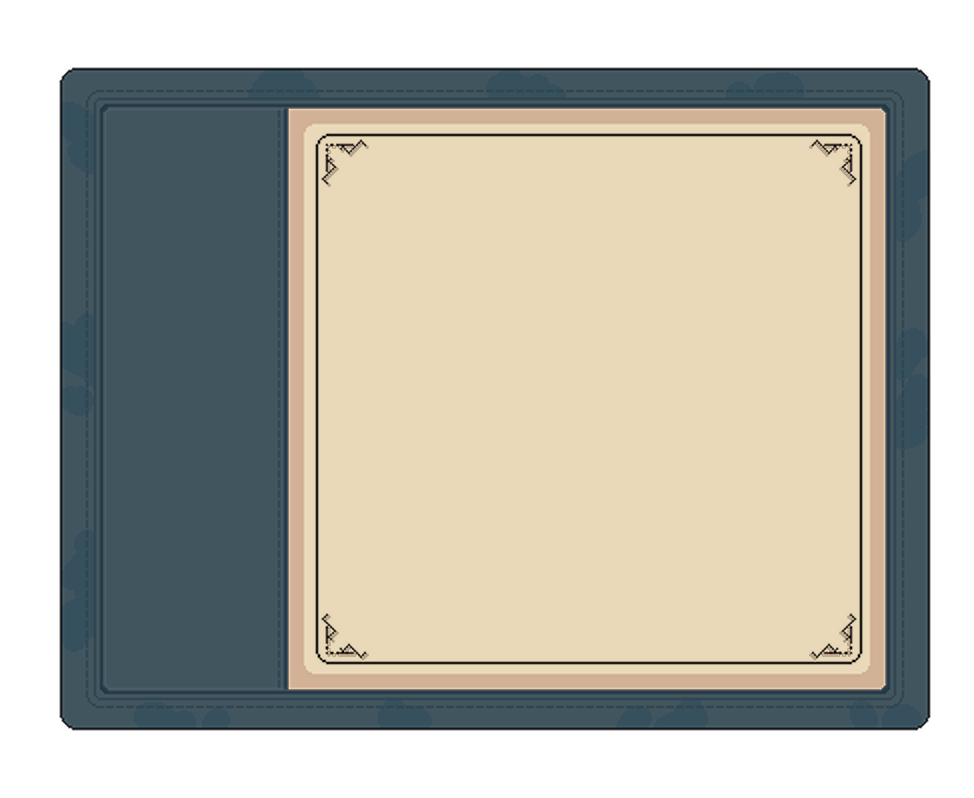
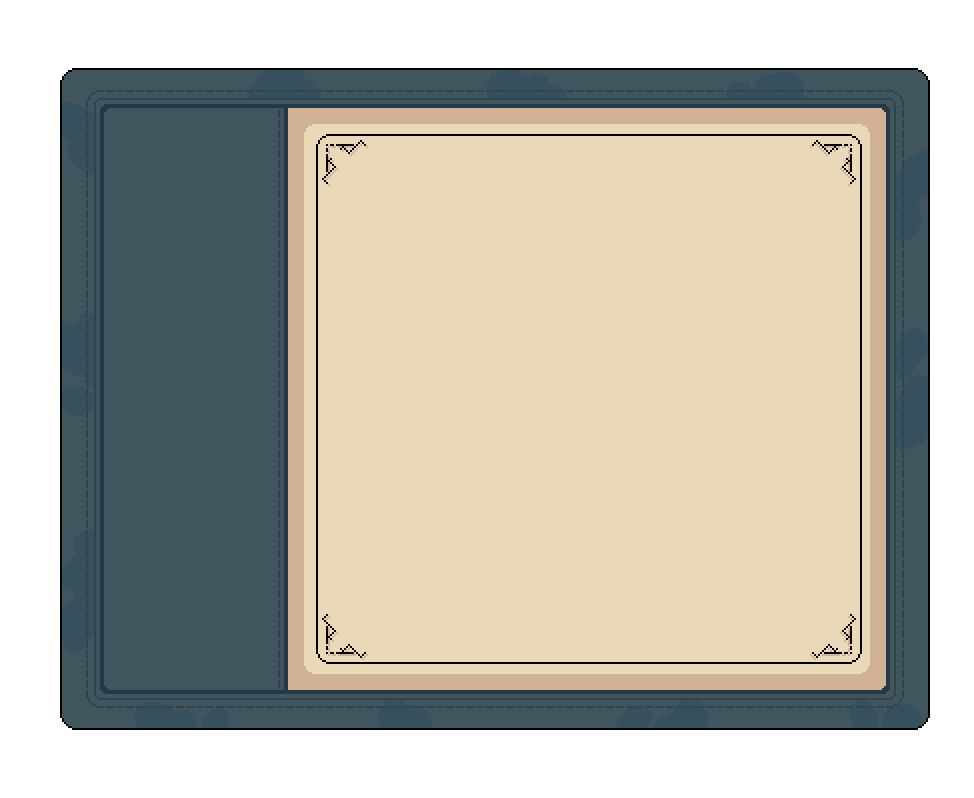
feat: Add option for mouse control (and move raycasting on another thread with the mlx)

Changed region(s): [[0.2772, 0.1203, 0.924, 0.8722]]

diff --git a/src/views/render_inventory.c b/src/views/render_inventory.c
@@ -6,11 +6,16 @@
 /*   By: rgodet <rgodet@student.42.fr>              +#+  +:+       +#+        */
 /*                                                +#+#+#+#+#+   +#+           */
 /*   Created: 2025/07/15 15:49:08 by rgodet            #+#    #+#             */
-/*   Updated: 2025/07/16 13:23:36 by rgodet           ###   ########.fr       */
+/*   Updated: 2025/07/16 15:46:49 by rgodet           ###   ########.fr       */
 /*                                                                            */
 /* ************************************************************************** */
 
 #include "../cub3d.h"
+
+void	render_shadow_text(t_game *game, int x, int y, char *text)
+{
+	mlx_string_put(game->graphics->init, game->graphics->window, x, y, color(0x000000FF), text);
+}
 
 void	render_inventory(t_game *game)
 {
@@ -18,13 +23,48 @@ void	render_inventory(t_game *game)
 	mlx_put_image_to_window(game->graphics->init, game->graphics->window, game->texture->render_tmp, 0, 0);
 	mlx_put_image_to_window(game->graphics->init, game->graphics->window, game->texture->inventory_background, 153, 1);
 
-	mlx_put_image_to_window(game->graphics->init, game->graphics->window, game->texture->inventory_icon_map, 299, 206);
-	mlx_put_image_to_window(game->graphics->init, game->graphics->window, game->texture->inventory_icon_cases, 299, 304);
-	mlx_put_image_to_window(game->graphics->init, game->graphics->window, game->texture->inventory_icon_save, 299, 400);
-	mlx_put_image_to_window(game->graphics->init, game->graphics->window, game->texture->inventory_icon_options, 299, 498);
+	if (game->player->inventory_page == 0)
+		mlx_put_image_to_window(game->graphics->init, game->graphics->window, game->texture->inventory_icon_map_selected, 299, 206);
+	else
+		mlx_put_image_to_window(game->graphics->init, game->graphics->window, game->texture->inventory_icon_map, 299, 206);
+	if (game->player->inventory_page == 1)
+		mlx_put_image_to_window(game->graphics->init, game->graphics->window, game->texture->inventory_icon_cases_selected, 299, 304);
+	else
+		mlx_put_image_to_window(game->graphics->init, game->graphics->window, game->texture->inventory_icon_cases, 299, 304);
+	if (game->player->inventory_page == 2)
+		mlx_put_image_to_window(game->graphics->init, game->graphics->window, game->texture->inventory_icon_save_selected, 299, 400);
+	else
+		mlx_put_image_to_window(game->graphics->init, game->graphics->window, game->texture->inventory_icon_save, 299, 400);
+	if (game->player->inventory_page == 3)
+		mlx_put_image_to_window(game->graphics->init, game->graphics->window, game->texture->inventory_icon_options_selected, 299, 498);
+	else
+		mlx_put_image_to_window(game->graphics->init, game->graphics->window, game->texture->inventory_icon_options, 299, 498);
 
 	mlx_put_image_to_window(game->graphics->init, game->graphics->window, game->texture->q_arrow, 315, 595);
 	mlx_put_image_to_window(game->graphics->init, game->graphics->window, game->texture->e_arrow, 315, 109);
+
+	if (game->player->inventory_page == 3) // Options page
+	{
+		mlx_put_image_to_window(game->graphics->init, game->graphics->window, game->texture->options_header, 511, 177);
+
+		if (game->player->selected_item == 0)
+			mlx_put_image_to_window(game->graphics->init, game->graphics->window, game->texture->slider_selected, 511, 297);
+		render_shadow_text(game, 531, 326, "FOV: 70");
+		mlx_put_image_to_window(game->graphics->init, game->graphics->window, game->texture->slider_base, 511, 297);
+
+		if (game->player->selected_item == 1)
+			mlx_put_image_to_window(game->graphics->init, game->graphics->window, game->texture->slider_selected, 511, 403);
+		render_shadow_text(game, 531, 433, "MAX FPS: 120");
+		mlx_put_image_to_window(game->graphics->init, game->graphics->window, game->texture->slider_base, 511, 403);
+
+		if (game->player->selected_item == 2)
+			mlx_put_image_to_window(game->graphics->init, game->graphics->window, game->texture->switch_selected, 511, 509);
+		render_shadow_text(game, 595, 556, "Rotate camera with mouse");
+		if (game->player->use_mouse_rotation)
+			mlx_put_image_to_window(game->graphics->init, game->graphics->window, game->texture->switch_on, 521, 519);
+		else
+			mlx_put_image_to_window(game->graphics->init, game->graphics->window, game->texture->switch_off, 521, 519);
+	}
 	if (game->events->exit)
 	{
 		change_view(game, 1);

diff --git a/src/views/render_game.c b/src/views/render_game.c
@@ -6,7 +6,7 @@
 /*   By: amblanch <amblanch@student.42.fr>          +#+  +:+       +#+        */
 /*                                                +#+#+#+#+#+   +#+           */
 /*   Created: 2025/07/09 13:45:18 by rgodet            #+#    #+#             */
-/*   Updated: 2025/07/15 15:39:46 by rgodet           ###   ########.fr       */
+/*   Updated: 2025/07/16 15:28:13 by rgodet           ###   ########.fr       */
 /*                                                                            */
 /* ************************************************************************** */
 
@@ -24,7 +24,6 @@ void	render_game(t_game *game)
 {
 	mlx_clear_window(game->graphics->init, game->graphics->window, color(0x000000FF));
 
-	raycasting(game);
 	mlx_put_image_to_window(game->graphics->init, game->graphics->window, game->texture->render_tmp, 0, 0);
 	(void) draw_rectangle;
 	compass(game);
@@ -35,20 +34,30 @@ void	render_game(t_game *game)
 
 	if (game->events->debug_enabled)
 		debug_view(game);
-	// int mouse_x = WIDTH_WINDOW/2;
-	// int mouse_y = 0;
-	// mlx_mouse_get_pos(game->graphics->init, &mouse_x, &mouse_y);
-	// if ((mouse_x / (float)WIDTH_WINDOW) * 360.0f == 0 && game->graphics->frame % 3 == 0)
-	// 	mlx_mouse_move(game->graphics->init, game->graphics->window, WIDTH_WINDOW - 2, HEIGHT_WINDOW/2);
-	// else if ((mouse_x / (float)WIDTH_WINDOW) * 360.0f > 359.0f && game->graphics->frame % 3 == 0)
-	// 	mlx_mouse_move(game->graphics->init, game->graphics->window, 2, HEIGHT_WINDOW/2);
-	// game->player->angle = (mouse_x / (float)WIDTH_WINDOW) * 360.0f;
-	//
-	// mlx_put_transformed_image_to_window(game->graphics->init, game->graphics->window, game->texture->north->img, 0, 0, 0.25, 0.25, 0);
-	// mlx_put_transformed_image_to_window(game->graphics->init, game->graphics->window, game->texture->south->img, game->texture->north->width * 0.25 + 10, 0, 0.25, 0.25, 0);
-	//
-	// mlx_put_transformed_image_to_window(game->graphics->init, game->graphics->window, game->texture->west->img, 0, game->texture->north->height * 0.25 + 10, 0.25, 0.25, 0);
-	// mlx_put_transformed_image_to_window(game->graphics->init, game->graphics->window, game->texture->east->img, game->texture->west->width * 0.25 + 10, game->texture->south->height * 0.25 + 10, 0.25, 0.25, 0);
+
+	if (game->player->use_mouse_rotation)
+	{
+		mlx_mouse_hide(game->graphics->init);
+		int mouse_x = WIDTH_WINDOW / 2;
+		int mouse_y = 0;
+		mlx_mouse_get_pos(game->graphics->init, &mouse_x, &mouse_y);
+		if ((mouse_x / (float) WIDTH_WINDOW) * 360.0f == 0 && game->graphics->frame % 3 == 0)
+			mlx_mouse_move(game->graphics->init, game->graphics->window, WIDTH_WINDOW - 2, HEIGHT_WINDOW / 2);
+		else if ((mouse_x / (float) WIDTH_WINDOW) * 360.0f > 359.0f && game->graphics->frame % 3 == 0)
+			mlx_mouse_move(game->graphics->init, game->graphics->window, 2, HEIGHT_WINDOW / 2);
+		game->player->angle = (mouse_x / (float) WIDTH_WINDOW) * 360.0f;
+
+		mlx_put_transformed_image_to_window(game->graphics->init, game->graphics->window, game->texture->north->img, 0, 0,
+											0.25, 0.25, 0);
+		mlx_put_transformed_image_to_window(game->graphics->init, game->graphics->window, game->texture->south->img,
+											game->texture->north->width * 0.25 + 10, 0, 0.25, 0.25, 0);
+
+		mlx_put_transformed_image_to_window(game->graphics->init, game->graphics->window, game->texture->west->img, 0,
+											game->texture->north->height * 0.25 + 10, 0.25, 0.25, 0);
+		mlx_put_transformed_image_to_window(game->graphics->init, game->graphics->window, game->texture->east->img,
+											game->texture->west->width * 0.25 + 10,
+											game->texture->south->height * 0.25 + 10, 0.25, 0.25, 0);
+	}
 	player_action(game);
 	game->graphics->frame++;
 }

diff --git a/src/event/pages/inventory.c b/src/event/pages/inventory.c
@@ -6,7 +6,7 @@
 /*   By: rgodet <rgodet@student.42.fr>              +#+  +:+       +#+        */
 /*                                                +#+#+#+#+#+   +#+           */
 /*   Created: 2025/07/16 13:28:11 by rgodet            #+#    #+#             */
-/*   Updated: 2025/07/16 13:28:14 by rgodet           ###   ########.fr       */
+/*   Updated: 2025/07/16 14:14:51 by rgodet           ###   ########.fr       */
 /*                                                                            */
 /* ************************************************************************** */
 
@@ -19,4 +19,35 @@ void	on_keydown_inventory(int key, t_game *game)
 		change_view(game, 1);
 		game->events->exit = 0;
 	}
+	if (key == 20)
+		game->player->inventory_page = (game->player->inventory_page + 1) % 4;
+	if (key == 8)
+		game->player->inventory_page = (game->player->inventory_page - 1 + 4) % 4;
+	if (key == 22)
+	{
+		if (game->player->inventory_page == 3)
+			game->player->selected_item = (game->player->selected_item + 1) % 3;
+	}
+	if (key == 26)
+	{
+		if (game->player->inventory_page == 3)
+			game->player->selected_item = (game->player->selected_item - 1 + 3) % 3;
+	}
+	if (key == 7)
+	{
+		if (game->player->inventory_page == 3)
+		{
+			if (game->player->selected_item == 2)
+				game->player->use_mouse_rotation = !game->player->use_mouse_rotation;
+		}
+	}
+	if (key == 4)
+	{
+		if (game->player->inventory_page == 3)
+		{
+			if (game->player->selected_item == 2)
+				game->player->use_mouse_rotation = !game->player->use_mouse_rotation;
+		}
+	}
+	printf("Key pressed in inventory: %d\n", key);
 }

diff --git a/src/images/load_hud_texture.c b/src/images/load_hud_texture.c
@@ -6,7 +6,7 @@
 /*   By: amblanch <amblanch@student.42.fr>          +#+  +:+       +#+        */
 /*                                                +#+#+#+#+#+   +#+           */
 /*   Created: 2025/07/10 13:19:44 by rgodet            #+#    #+#             */
-/*   Updated: 2025/07/16 13:22:14 by rgodet           ###   ########.fr       */
+/*   Updated: 2025/07/16 15:41:35 by rgodet           ###   ########.fr       */
 /*                                                                            */
 /* ************************************************************************** */
 
@@ -58,4 +58,10 @@ void	load_hud_texture(t_texture *texture, mlx_context init)
 			"assets/inventory_icon_options_selected.png", init);
 	texture->q_arrow = load("assets/q_arrow.png", init);
 	texture->e_arrow = load("assets/e_arrow.png", init);
+	texture->options_header = load("assets/options_header.png", init);
+	texture->slider_base = load("assets/slider_base.png", init);
+	texture->slider_selected = load("assets/slider_selected.png", init);
+	texture->switch_on = load("assets/switch_on.png", init);
+	texture->switch_off = load("assets/switch_off.png", init);
+	texture->switch_selected = load("assets/switch_selected.png", init);
 }

diff --git a/src/struct.h b/src/struct.h
@@ -6,7 +6,7 @@
 /*   By: amblanch <amblanch@student.42.fr>          +#+  +:+       +#+        */
 /*                                                +#+#+#+#+#+   +#+           */
 /*   Created: 2025/06/23 14:58:27 by amblanch          #+#    #+#             */
-/*   Updated: 2025/07/16 13:46:52 by rgodet           ###   ########.fr       */
+/*   Updated: 2025/07/16 15:49:20 by rgodet           ###   ########.fr       */
 /*                                                                            */
 /* ************************************************************************** */
 
@@ -63,6 +63,12 @@ typedef struct s_texture
 	mlx_image	inventory_icon_options_selected;
 	mlx_image	q_arrow;
 	mlx_image	e_arrow;
+	mlx_image	options_header;
+	mlx_image	slider_base;
+	mlx_image	slider_selected;
+	mlx_image	switch_on;
+	mlx_image	switch_off;
+	mlx_image	switch_selected;
 }				t_texture;
 
 typedef struct s_graphics
@@ -86,6 +92,8 @@ typedef struct s_player
 	float		rad;
 	float		angle;
 	int			inventory_page;
+	int			selected_item;
+	int			use_mouse_rotation;
 }				t_player;
 
 typedef struct s_map

diff --git a/src/raycasting/graphics.c b/src/raycasting/graphics.c
@@ -6,16 +6,28 @@
 /*   By: amblanch <amblanch@student.42.fr>          +#+  +:+       +#+        */
 /*                                                +#+#+#+#+#+   +#+           */
 /*   Created: 2025/07/08 14:05:59 by amblanch          #+#    #+#             */
-/*   Updated: 2025/07/16 10:42:40 by amblanch         ###   ########.fr       */
+/*   Updated: 2025/07/16 15:20:42 by rgodet           ###   ########.fr       */
 /*                                                                            */
 /* ************************************************************************** */
 
 #include "../cub3d.h"
 
+void	raycasting_task(void	*param)
+{
+	t_game	*game;
+
+	game = (t_game *)param;
+	raycasting(game);
+}
+
 void	graphic(t_game *game)
 {
 	game->ray->deltaangle = FOV / (float)WIDTH_WINDOW;
 	game->ray->deg_to_rad = 3.14 / 180.0f;
+
+	mlx_set_font_scale(game->graphics->init, "assets/fonts/SuperLegendBoy.ttf", 22);
+
 	mlx_add_loop_hook(game->graphics->init, render, game);
+	mlx_add_loop_hook(game->graphics->init, raycasting_task, game);
 	mlx_loop(game->graphics->init);
 }

diff --git a/src/raycasting/render.c b/src/raycasting/render.c
@@ -6,7 +6,7 @@
 /*   By: rgodet <rgodet@student.42.fr>              +#+  +:+       +#+        */
 /*                                                +#+#+#+#+#+   +#+           */
 /*   Created: 2025/07/09 13:44:55 by rgodet            #+#    #+#             */
-/*   Updated: 2025/07/15 15:54:04 by rgodet           ###   ########.fr       */
+/*   Updated: 2025/07/16 15:58:00 by rgodet           ###   ########.fr       */
 /*                                                                            */
 /* ************************************************************************** */
 
@@ -14,6 +14,7 @@
 
 void	change_view(t_game *game, int view)
 {
+	mlx_mouse_show(game->graphics->init);
 	game->graphics->view = view;
 	game->graphics->frame = 0;
 }
@@ -33,7 +34,7 @@ void	debug_fps(t_game *game)
 	fps_str = ft_strjoin("FPS: ", tmp);
 	free(tmp);
 	mlx_string_put(game->graphics->init, game->graphics->window,
-		10, 10, color(0xFFFFFF), fps_str);
+		WIDTH_WINDOW - 150, 20, color(0xFFEA00FF), fps_str);
 	free(fps_str);
 }
 

diff --git a/src/event/subscribe_keydown.c b/src/event/subscribe_keydown.c
@@ -6,7 +6,7 @@
 /*   By: amblanch <amblanch@student.42.fr>          +#+  +:+       +#+        */
 /*                                                +#+#+#+#+#+   +#+           */
 /*   Created: 2025/07/09 11:04:46 by rgodet            #+#    #+#             */
-/*   Updated: 2025/07/14 09:29:24 by amblanch         ###   ########.fr       */
+/*   Updated: 2025/07/16 15:29:17 by rgodet           ###   ########.fr       */
 /*                                                                            */
 /* ************************************************************************** */
 
